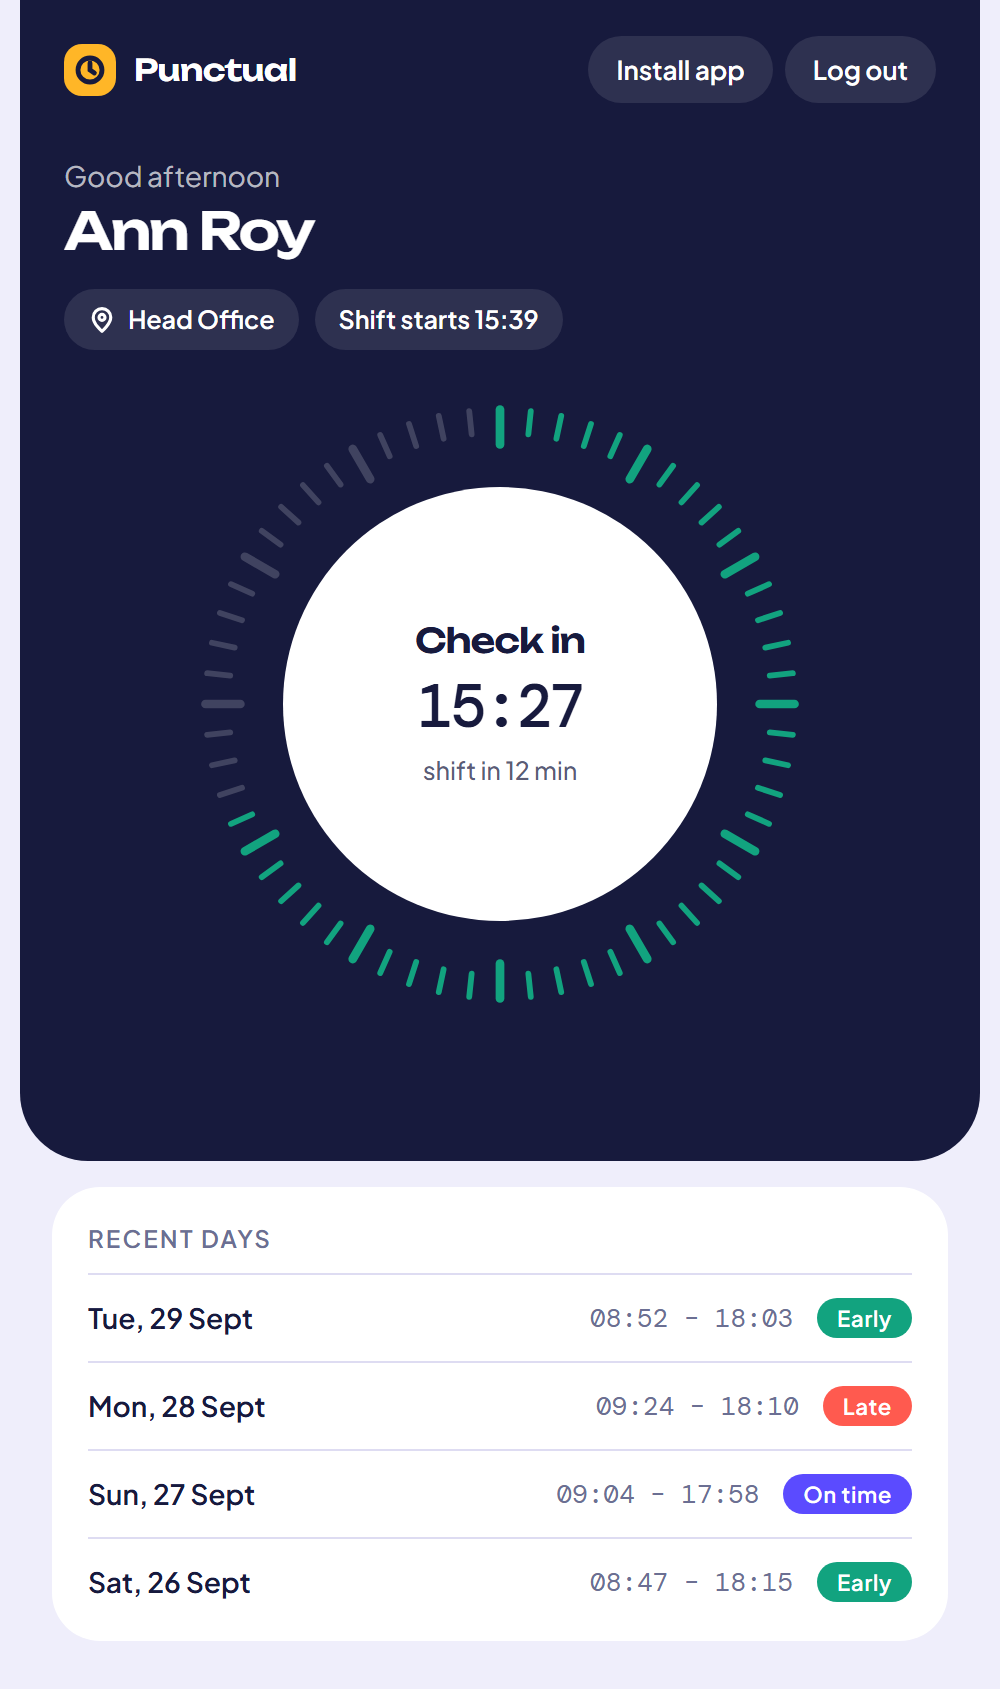
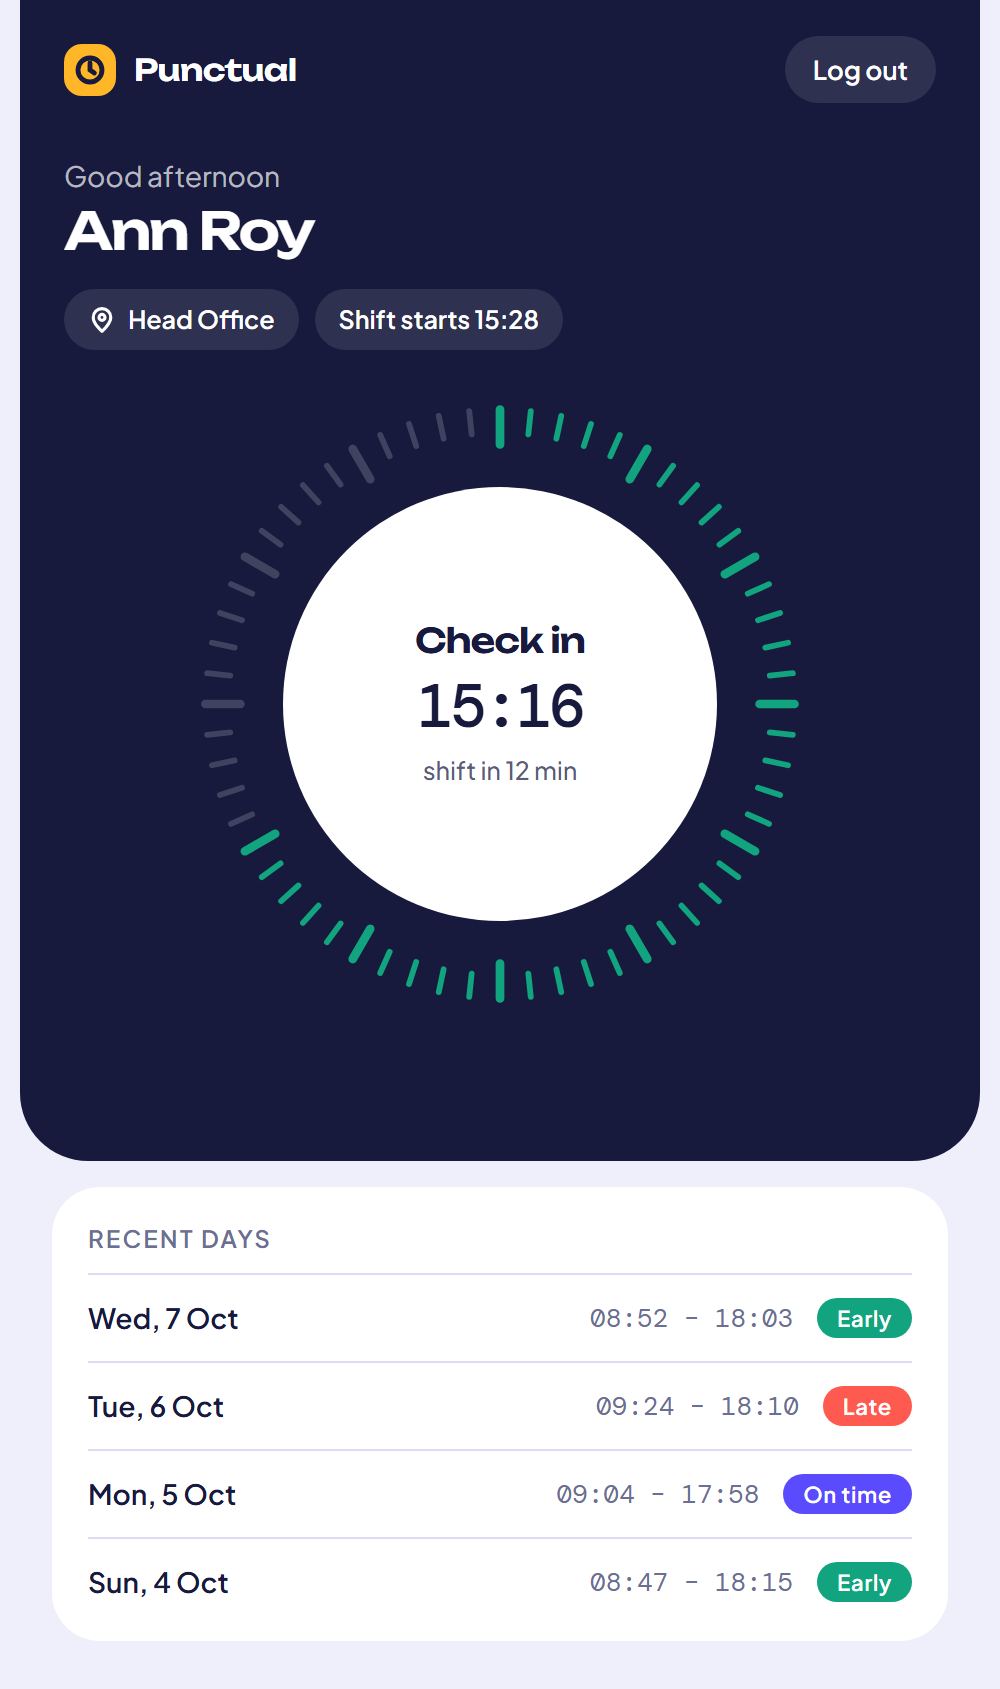
Update README and screenshots

diff --git a/README.md b/README.md
@@ -1,14 +1,22 @@
 # Punctual
 
+[![CI](https://github.com/ANirbaNEz/Punctual/actions/workflows/ci.yml/badge.svg)](https://github.com/ANirbaNEz/Punctual/actions/workflows/ci.yml)
+
 Location- and face-verified employee attendance. Employees check in and out from their phone or PC; the app confirms they are at the office and that it is really them, records where and when, and tells them whether they are early, on time or late. Admins see everything live on a dashboard.
 
 Both screens are installable as apps (PWA) with their own icons: **Punctual** for employees, **Punctual Admin** for admins.
 
-| Employee (phone) | Employee, checked in | Admin dashboard |
-|---|---|---|
-| ![Employee home](docs/employee-home.png) | ![Checked in](docs/employee-checked-in.png) | ![Admin](docs/admin-dashboard.png) |
+| Employee: before check-in | Employee: checked in |
+|---|---|
+| ![Employee home](docs/employee-home.png) | ![Checked in](docs/employee-checked-in.png) |
 
-> Screenshots use made-up demo data.
+![Admin dashboard](docs/admin-dashboard.png)
+
+| Admin: reviewing faces | Admin: office circle and rules |
+|---|---|
+| ![Admin faces](docs/admin-faces.png) | ![Office setup](docs/admin-office.png) |
+
+> Screenshots use made-up names and drawn avatars, not real people.
 
 ## Features
 
@@ -36,7 +44,7 @@ Both screens are installable as apps (PWA) with their own icons: **Punctual** fo
 | Location | Browser Geolocation API, OpenStreetMap Nominatim for addresses (can be switched off) |
 | Face check | OpenCV (YuNet face detector + SFace recogniser, small ONNX models with pinned checksums), camera via `getUserMedia` |
 | Install | PWA: web manifests, service worker, separate icons for the two apps |
-| Tests | pytest unit tests and a full end-to-end script, both run by GitHub Actions |
+| Tests | pytest unit tests and a full end-to-end script, both run by GitHub Actions on every push |
 
 ## How it works
 
@@ -115,8 +123,10 @@ employee.html        Employee app
 admin.html           Admin app
 static/              PWA manifests, icons, service worker
 tests/               unit tests and the end-to-end script
+requirements.txt     what the app needs
+requirements-dev.txt extra packages for the tests only
 .github/workflows/   CI
-start.ps1            Windows helper: starts the app and a tunnel
+start.ps1            Windows helper: asks for passwords, starts the app and a tunnel
 models/              face models (downloaded on first start, not committed)
 photos/              selfies (created at runtime, not committed)
 docs/                README screenshots
